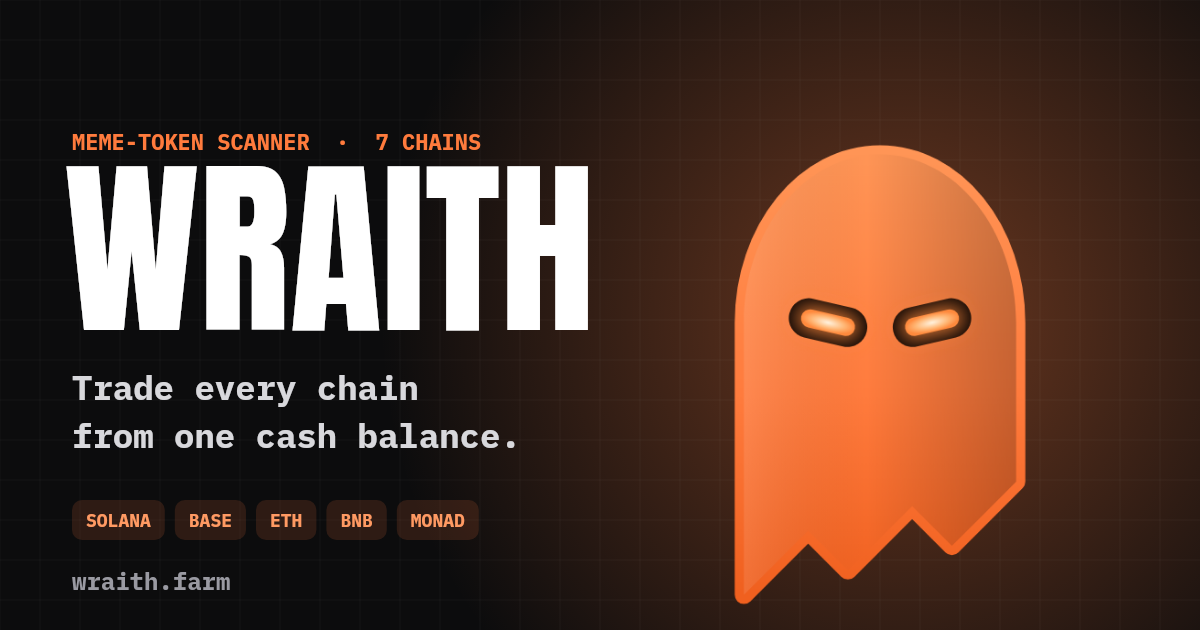
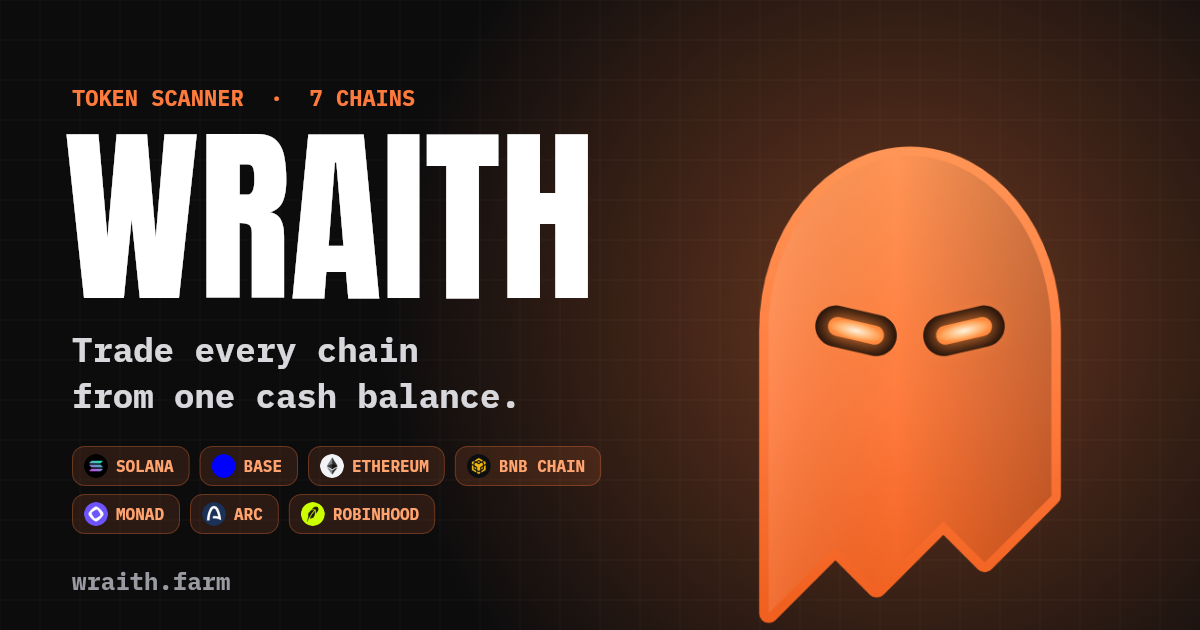
Reposition as a token scanner across 7 chains
Landing, metadata, manifest, login and legal pages now describe Wraith
as a token scanner (Solana, Base, Ethereum, BNB Chain, Monad, Arc,
Robinhood Chain) instead of a meme token scanner. Telegram copy and
the share image follow the same positioning.

Claude-Session: https://claude.ai/code/session_01MD3CXU848BuoMyALSbipTF

diff --git a/components/landing/landing.css b/components/landing/landing.css
@@ -163,7 +163,9 @@
 .lp-board-row .mx strong { color: #22c55e; font-family: var(--font-mono, monospace); font-size: 17px; }
 .lp-board-row .mx span { color: var(--text-dim, #6e6e74); font-size: 11px; }
 .lp-board-foot { margin-top: 10px; color: var(--text-dim, #6e6e74); font-size: 11px; line-height: 1.5; }
-.lp-coin { width: 34px; height: 34px; border-radius: 50%; object-fit: cover; flex: 0 0 auto; background: var(--surface-2, #1a1a1c); }
+.lp-coin { position: relative; overflow: hidden; width: 34px; height: 34px; border-radius: 50%; object-fit: cover; flex: 0 0 auto; background: var(--surface-2, #1a1a1c); }
+.lp-coin .lp-ci { position: absolute; inset: 0; width: 100%; height: 100%; max-width: none; object-fit: cover; border-radius: 50%; opacity: 0; transition: opacity .18s; }
+.lp-coin .lp-ci.in { opacity: 1; }
 .lp-coin.ph { display: grid; place-items: center; font-weight: 800; color: var(--accent-text, #ffad7b); }
 .lp-scan-row .lp-coin, .lp-win .lp-coin { width: 24px; height: 24px; font-size: 11px; }
 .lp-scan-head, .lp-scan-row { grid-template-columns: 1.7fr .8fr 1fr .8fr .8fr; }
@@ -222,7 +224,7 @@
   .lp-scan-head span:nth-child(5), .lp-scan-row span:nth-child(5) { display: none; }
   .lp-scan-row .id { gap: 6px; min-width: 0; }
   .lp-scan-row .id b { overflow: hidden; text-overflow: ellipsis; }
-  .lp-scan-row .id svg, .lp-scan-row .id img:not(.lp-coin) { display: none; }
+  .lp-scan-row .id svg, .lp-scan-row .id img:not(.lp-coin):not(.lp-ci) { display: none; }
   .lp-wins-top { flex-direction: column; }
   .lp-board-stats { gap: 8px; }
   .lp-board-stats > div { padding: 10px 8px; }
@@ -267,8 +269,8 @@ html { scroll-behavior: smooth; }
 .lp section[id] { scroll-margin-top: 96px; }
 .lp-nav { position: fixed; top: 14px; left: 0; right: 0; z-index: 60; display: flex; flex-direction: column; align-items: center; pointer-events: none; }
 .lp-prog { position: fixed; top: 0; left: 0; right: 0; height: 2px; background: linear-gradient(90deg, #ff7b3d, #ffb27f); transform-origin: 0 50%; z-index: 61; box-shadow: 0 0 12px rgba(255,123,61,.7); }
-.lp-nav-pill { pointer-events: auto; width: min(1060px, calc(100% - 28px)); display: flex; align-items: center; gap: 18px; padding: 8px 8px 8px 18px; border-radius: 999px; border: 1px solid rgba(255,255,255,.1); background: rgba(16,16,18,.55); -webkit-backdrop-filter: blur(20px) saturate(1.4); backdrop-filter: blur(20px) saturate(1.4); box-shadow: 0 18px 50px -22px rgba(0,0,0,.8), inset 0 1px 0 rgba(255,255,255,.05); transition: width .35s cubic-bezier(.22,1,.36,1), background .25s, box-shadow .25s; }
-.lp-nav.sc .lp-nav-pill { width: min(780px, calc(100% - 28px)); background: rgba(14,14,16,.82); box-shadow: 0 22px 60px -20px rgba(0,0,0,.9), 0 0 0 1px rgba(255,123,61,.08); }
+.lp-nav-pill { pointer-events: auto; width: min(1160px, calc(100% - 32px)); display: flex; align-items: center; gap: 18px; padding: 8px 8px 8px 18px; border-radius: 999px; border: 1px solid rgba(255,255,255,.1); background: rgba(16,16,18,.55); -webkit-backdrop-filter: blur(20px) saturate(1.4); backdrop-filter: blur(20px) saturate(1.4); box-shadow: 0 18px 50px -22px rgba(0,0,0,.8), inset 0 1px 0 rgba(255,255,255,.05); transition: width .35s cubic-bezier(.22,1,.36,1), background .25s, box-shadow .25s; }
+.lp-nav.sc .lp-nav-pill { background: rgba(14,14,16,.82); box-shadow: 0 22px 60px -20px rgba(0,0,0,.9), 0 0 0 1px rgba(255,123,61,.08); }
 .lp-brand { display: flex; align-items: center; gap: 10px; font: 800 15px/1 var(--lp-display), system-ui, sans-serif; letter-spacing: .28em; color: #fff; }
 .lp-brand img { width: 26px; height: 26px; object-fit: contain; mix-blend-mode: screen; filter: drop-shadow(0 0 7px rgba(255,123,61,.5)); }
 .lp-nav-links { display: flex; align-items: center; gap: 2px; margin-left: auto; }
@@ -369,3 +371,4 @@ html { scroll-behavior: smooth; }
 .dl-badge small{font-size:10px;opacity:.75}
 .dl-badge b{font-size:16px;font-weight:700;letter-spacing:-.01em}
 .dl-badge em{font-style:normal;font-size:10.5px;font-weight:800;letter-spacing:.06em;text-transform:uppercase;padding:3px 8px;border-radius:999px;background:rgba(255,255,255,.12)}
+@media (min-width: 1700px) { .lp-nav-pill { width: min(1320px, calc(100% - 64px)); } }

diff --git a/components/landing/Mocks.tsx b/components/landing/Mocks.tsx
@@ -4,7 +4,7 @@ import { AnimatePresence, motion, useReducedMotion } from "framer-motion";
 import { useEffect, useMemo, useState } from "react";
 import ChainLogo from "@/components/ChainLogo";
 
-export interface Call { address: string; chain: string; symbol: string; imageUrl: string | null; tier: "HOT" | "WATCH"; score: number; spottedAt: number; spottedMcap: number; peakMcap: number; lastMcap: number; x: number }
+export interface Call { address: string; chain: string; symbol: string; imageUrl: string | null; tier: "HOT" | "WATCH"; score: number; spottedAt: number; spottedMcap: number; peakMcap: number; lastMcap: number; x: number; nowX?: number }
 export interface Candle { t: number; o: number; h: number; l: number; c: number; v?: number }
 export interface TgBlock { html: string; kb?: { inline_keyboard?: { text: string }[][] } | null }
 export interface LandingData {
@@ -24,12 +24,20 @@ export const xf = (x: number) => `${x >= 10 ? x.toFixed(1) : x.toFixed(2)}x`;
 function Empty({ text }: { text: string }) { return <p className="lp-empty">{text}</p>; }
 function Skeleton({ rows = 5 }: { rows?: number }) { return <div className="lp-skel">{Array.from({ length: rows }).map((_, i) => <i key={i} />)}</div>; }
 
+/** Letter avatar is always there instantly; the token image fades in over it, and a broken image just leaves the letter. */
 export function Coin({ c }: { c: Call }) {
-  return c.imageUrl
-    // eslint-disable-next-line @next/next/no-img-element
-    ? <img className="lp-coin" src={c.imageUrl} alt="" loading="lazy" onError={(e) => { (e.target as HTMLImageElement).style.visibility = "hidden"; }} />
-    : <span className="lp-coin ph">{c.symbol.slice(0, 1)}</span>;
+  const [ok, setOk] = useState(true);
+  return (
+    <span className="lp-coin ph">
+      {c.symbol.slice(0, 1).toUpperCase()}
+      {c.imageUrl && ok && (
+        // eslint-disable-next-line @next/next/no-img-element
+        <img className="lp-ci" src={c.imageUrl} alt="" loading="eager" decoding="async" referrerPolicy="no-referrer" onLoad={(e) => e.currentTarget.classList.add("in")} onError={() => setOk(false)} />
+      )}
+    </span>
+  );
 }
+const nowMult = (c: Call) => c.nowX ?? (c.spottedMcap > 0 ? c.lastMcap / c.spottedMcap : c.x);
 
 export function Ticker({ data }: { data: LandingData | null }) {
   const items = useMemo(() => {
@@ -49,8 +57,8 @@ export function Ticker({ data }: { data: LandingData | null }) {
             <ChainLogo chain={c.chain} size={14} />
             <b>${c.symbol.toUpperCase()}</b>
             <i style={{ color: TIER_COLOR[c.tier], borderColor: TIER_COLOR[c.tier] }}>{c.tier}</i>
-            <em style={{ color: c.x >= 1 ? "#22c55e" : "#ef4444" }}>{xf(c.x)}</em>
-            <small>{fmtUsd(c.spottedMcap)} → {fmtUsd(c.peakMcap)}</small>
+            <em style={{ color: nowMult(c) >= 1 ? "#22c55e" : "#ef4444" }}>{xf(nowMult(c))}</em>
+            <small>{fmtUsd(c.spottedMcap)} → {fmtUsd(c.lastMcap)}</small>
           </span>
         ))}
       </div>
@@ -74,7 +82,7 @@ export function LiveBoard({ data, loading }: { data: LandingData | null; loading
           <div key={c.address} className="lp-board-row">
             <Coin c={c} />
             <div className="nm"><b>${c.symbol.toUpperCase()}</b><span><ChainLogo chain={c.chain} size={12} /> called at {fmtUsd(c.spottedMcap)}</span></div>
-            <div className="mx"><strong>{xf(c.x)}</strong><span>peak {fmtUsd(c.peakMcap)}</span></div>
+            <div className="mx"><strong>{xf(nowMult(c))}</strong><span>now {fmtUsd(c.lastMcap)} · peak {fmtUsd(c.peakMcap)}</span></div>
           </div>
         ))}
       </div>
@@ -181,7 +189,7 @@ export function WinsReal({ data }: { data: LandingData | null }) {
         <div key={c.address} className="lp-win">
           <span className="id"><Coin c={c} /><b>${c.symbol.toUpperCase()}</b><ChainLogo chain={c.chain} size={13} /></span>
           <i style={{ color: TIER_COLOR[c.tier], borderColor: TIER_COLOR[c.tier] }}>{c.tier}</i>
-          <em>{xf(c.x)}</em>
+          <em>{xf(nowMult(c))}</em>
         </div>
       ))}
     </div>

diff --git a/app/page.tsx b/app/page.tsx
@@ -3,16 +3,16 @@ import Landing from "@/components/landing/Landing";
 
 export const metadata: Metadata = {
   title: "Wraith: trade every chain from one cash balance",
-  description: "Scan new meme tokens on Solana, Base, Ethereum, BNB Chain, Monad, Arc and Robinhood Chain, and buy them with the stablecoins you already hold.",
+  description: "Scan new tokens on Solana, Base, Ethereum, BNB Chain, Monad, Arc and Robinhood Chain, find the ones with real upside, and buy with the stablecoins you already hold.",
   openGraph: {
     title: "Wraith: trade every chain from one cash balance",
-    description: "Multi-chain meme-token scanner and trading platform with Telegram alerts and OMEN holder tiers.",
-    images: [{ url: "/og.png", width: 1200, height: 630, alt: "Wraith, the meme-token scanner" }],
+    description: "Multi-chain token scanner and trading platform with Telegram alerts and OMEN holder tiers.",
+    images: [{ url: "/og.png", width: 1200, height: 630, alt: "Wraith, the multi-chain token scanner" }],
     url: "https://www.wraith.farm",
     siteName: "Wraith",
     type: "website",
   },
-  twitter: { card: "summary_large_image", title: "Wraith: trade every chain from one cash balance", description: "Multi-chain meme-token scanner and trading platform with Telegram alerts.", images: ["/og.png"] },
+  twitter: { card: "summary_large_image", title: "Wraith: trade every chain from one cash balance", description: "Multi-chain token scanner and trading platform with Telegram alerts.", images: ["/og.png"] },
   alternates: { canonical: "/" },
 };
 
@@ -21,7 +21,7 @@ const LD = {
   "@graph": [
     { "@type": "Organization", "@id": "https://www.wraith.farm/#org", name: "Wraith", url: "https://www.wraith.farm", logo: "https://www.wraith.farm/icon-512.png" },
     { "@type": "WebSite", "@id": "https://www.wraith.farm/#site", url: "https://www.wraith.farm", name: "Wraith", publisher: { "@id": "https://www.wraith.farm/#org" } },
-    { "@type": "SoftwareApplication", name: "Wraith", applicationCategory: "FinanceApplication", operatingSystem: "Web, Android", url: "https://www.wraith.farm", image: "https://www.wraith.farm/og.png", description: "Multi-chain meme-token scanner and trading platform with Telegram alerts.", offers: { "@type": "Offer", price: "0", priceCurrency: "USD" } },
+    { "@type": "SoftwareApplication", name: "Wraith", applicationCategory: "FinanceApplication", operatingSystem: "Web, Android", url: "https://www.wraith.farm", image: "https://www.wraith.farm/og.png", description: "Multi-chain token scanner and trading platform with Telegram alerts.", offers: { "@type": "Offer", price: "0", priceCurrency: "USD" } },
   ],
 };
 

diff --git a/app/api/landing/route.ts b/app/api/landing/route.ts
@@ -25,6 +25,8 @@ type Candle = { t: number; o: number; h: number; l: number; c: number; v?: numbe
 type TgBlock = { html: string; kb: unknown };
 
 const xOf = (c: SignalCall) => (c.spottedMcap > 0 ? c.peakMcap / c.spottedMcap : 0);
+/** where the call stands now vs. where Wraith flagged it: the calls that stayed up */
+const nowOf = (c: SignalCall) => (c.spottedMcap > 0 ? c.lastMcap / c.spottedMcap : 0);
 const slim = (c: SignalCall) => ({
   address: c.address,
   chain: c.chain ?? "solana",
@@ -37,6 +39,7 @@ const slim = (c: SignalCall) => ({
   peakMcap: c.peakMcap,
   lastMcap: c.lastMcap,
   x: Math.round(xOf(c) * 100) / 100,
+  nowX: Math.round(nowOf(c) * 100) / 100,
 });
 type Slim = ReturnType<typeof slim>;
 
@@ -112,10 +115,12 @@ async function sampleSignal(origin: string, calls: SignalCall[], now: number): P
 function shape(calls: SignalCall[], now: number) {
   const hit2 = calls.filter((c) => xOf(c) >= 2).length;
   const stats = { calls: calls.length, hit2, rate: calls.length ? Math.round((hit2 / calls.length) * 100) : 0 };
-  const winCalls = calls.filter((c) => xOf(c) >= 1.5).sort((a, b) => xOf(b) - xOf(a));
+  // Showcase the calls that STAYED up (still well above the call price now), not ones that spiked and dumped.
+  const held = calls.filter((c) => nowOf(c) >= 1.5).sort((a, b) => nowOf(b) - nowOf(a));
+  const winCalls = held.length >= 3 ? held : calls.filter((c) => xOf(c) >= 1.5).sort((a, b) => xOf(b) - xOf(a));
   const wins = winCalls.slice(0, 8).map(slim);
   const recent = calls.filter((c) => c.spottedAt < now - 3_600_000).sort((a, b) => b.spottedAt - a.spottedAt).slice(0, 8).map(slim);
-  const topWin = calls.filter((c) => xOf(c) >= 2).sort((a, b) => xOf(b) - xOf(a))[0];
+  const topWin = held.find((c) => nowOf(c) >= 2) ?? calls.filter((c) => xOf(c) >= 2).sort((a, b) => xOf(b) - xOf(a))[0];
   const win: TgBlock | null = topWin
     ? { html: winMessage(topWin, milestoneFor(topWin.lastMcap / topWin.spottedMcap) || 2), kb: tokenKeyboard(topWin.address, topWin.chain ?? "solana") }
     : null;

diff --git a/app/layout.tsx b/app/layout.tsx
@@ -32,14 +32,14 @@ const display = localFont({
 
 const SITE = "https://www.wraith.farm";
 const TITLE = "Wraith: trade every chain from one cash balance";
-const DESC = "Multi-chain meme-token scanner and trading platform. Live signals on Solana, Base, Ethereum, BNB Chain, Monad, Arc and Robinhood Chain, Telegram alerts, and paper trading.";
+const DESC = "Multi-chain token scanner and trading platform. Find tokens with real upside across Solana, Base, Ethereum, BNB Chain, Monad, Arc and Robinhood Chain, with safety scores, Telegram alerts and paper trading.";
 
 export const metadata: Metadata = {
   metadataBase: new URL(SITE),
   title: { default: TITLE, template: "%s | Wraith" },
   description: DESC,
   applicationName: "Wraith",
-  keywords: ["meme coin scanner", "token scanner", "Solana meme coins", "crypto signals", "paper trading", "Telegram crypto alerts", "multi-chain trading", "Wraith"],
+  keywords: ["token scanner", "crypto token scanner", "multi-chain token scanner", "new token alerts", "crypto signals", "paper trading", "Telegram crypto alerts", "multi-chain trading", "Wraith"],
   authors: [{ name: "Wraith", url: SITE }],
   creator: "Wraith",
   publisher: "Wraith",
@@ -52,7 +52,7 @@ export const metadata: Metadata = {
     title: TITLE,
     description: DESC,
     locale: "en_US",
-    images: [{ url: "/og.png", width: 1200, height: 630, alt: "Wraith, the meme-token scanner" }],
+    images: [{ url: "/og.png", width: 1200, height: 630, alt: "Wraith, the multi-chain token scanner" }],
   },
   twitter: { card: "summary_large_image", title: TITLE, description: DESC, images: ["/og.png"] },
   robots: { index: true, follow: true, googleBot: { index: true, follow: true, "max-image-preview": "large", "max-snippet": -1 } },

diff --git a/app/terms/page.tsx b/app/terms/page.tsx
@@ -1,7 +1,7 @@
 import type { Metadata } from "next";
 import { LegalPage, H } from "../legal-page";
 
-export const metadata: Metadata = { title: "Terms of Service | Wraith" };
+export const metadata: Metadata = { title: "Terms of Service" };
 
 export default function TermsPage() {
   return (
@@ -9,10 +9,10 @@ export default function TermsPage() {
       <p>By using Wraith (wraith.farm) you agree to these terms. If you do not agree, do not use the service.</p>
 
       <H>What Wraith is</H>
-      <p>Wraith is a tool for discovering and tracking meme tokens, with paper trading and optional live trading. It provides market data and automated checks for information only.</p>
+      <p>Wraith is a tool for discovering and tracking tokens across chains, with paper trading and optional live trading. It provides market data and automated checks for information only.</p>
 
       <H>Not financial advice</H>
-      <p>Nothing in Wraith is financial, investment or legal advice. Safety scores, analysis and signals are automated and can be wrong. Meme tokens are extremely volatile and you can lose everything you put in. You are responsible for your own decisions.</p>
+      <p>Nothing in Wraith is financial, investment or legal advice. Safety scores, analysis and signals are automated and can be wrong. Early-stage tokens are extremely volatile and you can lose everything you put in. You are responsible for your own decisions.</p>
 
       <H>Your account and wallet</H>
       <p>You are responsible for your account and for keeping your sign-in and wallet secure. You must be old enough to use crypto services where you live and follow the laws that apply to you.</p>

diff --git a/components/landing/content.ts b/components/landing/content.ts
@@ -6,7 +6,7 @@ export const HERO = {
   eyebrow: "Seven networks · one balance",
   title: ["See it first.", "Buy it from", "any chain."],
   accent: 2, // index of the line shown in the accent colour
-  sub: "Wraith scans new meme tokens on Solana, Base, Ethereum, BNB Chain, Monad, Arc and Robinhood Chain, scores them, and lets you buy with the stablecoins you already hold.",
+  sub: "Wraith scans new tokens on Solana, Base, Ethereum, BNB Chain, Monad, Arc and Robinhood Chain, scores their upside and safety, and lets you buy with the stablecoins you already hold.",
   note: "Sign in with Google · wallets created for you · not financial advice",
 };
 
@@ -67,5 +67,5 @@ export const FAQ = [
   ["Do you hold my funds?", "No. Wallets are embedded wallets that only you can approve from. You approve each transaction and can lock the wallet with a PIN."],
   ["What does it cost?", "A small per-trade fee that depends on your tier, from 1.5% with no OMEN down to 0% at the top tier. Network gas is separate."],
   ["Are the screens on this page real?", "Yes. The numbers, tokens and Telegram messages on this page come from the same server-side call record the app uses, refreshed every 30 seconds."],
-  ["Is this financial advice?", "No. Meme tokens are extremely volatile and most lose value. Only trade what you can afford to lose."],
+  ["Is this financial advice?", "No. Early-stage tokens are extremely volatile and most lose value. Only trade what you can afford to lose."],
 ] as const;

diff --git a/components/landing/Landing.tsx b/components/landing/Landing.tsx
@@ -153,7 +153,7 @@ export default function Landing() {
         <section id="features" className="ws-sec">
           <div className="ws-wrap">
             <Reveal><span className="ws-kicker">The product</span>
-              <h2 className="ws-h2 lp-h2">Built for the way meme tokens actually move.</h2></Reveal>
+              <h2 className="ws-h2 lp-h2">Built for the way new tokens actually move.</h2></Reveal>
             <div className="lp-rows">
               {SHOWCASE.map((f, i) => (
                 <div key={f.id} className={`lp-row${i % 2 ? " rev" : ""}`}>
@@ -266,7 +266,7 @@ export default function Landing() {
               </div>
             </div>
             <footer className="ws-foot">
-              <span>Wraith © {new Date().getFullYear()} · Not financial advice. Meme tokens are high risk.</span>
+              <span>Wraith © {new Date().getFullYear()} · Not financial advice. Tokens are high risk.</span>
               <span><a href={PORTAL} target="_blank" rel="noreferrer">Telegram channel</a> · <a href={BOT} target="_blank" rel="noreferrer">Alerts bot</a> · <Link href="/app">App</Link> · <Link href="/privacy">Privacy Policy</Link> · <Link href="/terms">Terms</Link></span>
             </footer>
           </div>

diff --git a/components/SniperEngine.tsx b/components/SniperEngine.tsx
@@ -124,7 +124,7 @@ export default function SniperEngine({ allowed }: { allowed: boolean }) {
               <a href="/#omen" style={{ display: "block", marginTop: 16, padding: 14, border: "1px dashed var(--border)", borderRadius: 10, color: "var(--text-muted)", fontSize: 12, textDecoration: "none" }}>🔒 Sniper unlocks at SHADE (250K OMEN).</a>
             ) : !cfg.ack ? (
               <div style={{ marginTop: 16, fontSize: 12, lineHeight: 1.7, color: "var(--text-muted)" }}>
-                <p style={{ margin: "0 0 10px" }}><b style={{ color: "var(--text)" }}>Read this first.</b> New memecoins are extremely risky and many are scams that cannot be sold. The sniper spends your real USDC without asking each time.</p>
+                <p style={{ margin: "0 0 10px" }}><b style={{ color: "var(--text)" }}>Read this first.</b> New tokens are extremely risky and many are scams that cannot be sold. The sniper spends your real USDC without asking each time.</p>
                 <ul style={{ margin: "0 0 12px", paddingLeft: 18 }}>
                   <li>It works only while Wraith is open in a visible tab.</li>
                   <li>Your hard caps (per buy, per day, open positions) are the only protection. Keep them small.</li>

diff --git a/app/privacy/page.tsx b/app/privacy/page.tsx
@@ -1,12 +1,12 @@
 import type { Metadata } from "next";
 import { LegalPage, H } from "../legal-page";
 
-export const metadata: Metadata = { title: "Privacy Policy | Wraith" };
+export const metadata: Metadata = { title: "Privacy Policy" };
 
 export default function PrivacyPage() {
   return (
     <LegalPage title="Privacy Policy" updated="November 5, 2026">
-      <p>Wraith (wraith.farm) is a meme token scanner and trading app. This page explains what we collect and how it is used.</p>
+      <p>Wraith (wraith.farm) is a multi-chain token scanner and trading app. This page explains what we collect and how it is used.</p>
 
       <H>What we collect</H>
       <p>When you sign in with Google, email or a wallet, authentication is handled by Privy. We receive your account identifier, your email address if you used one, your display name and profile picture from your sign-in provider, and your wallet address.</p>

diff --git a/marketing/kit/specs.js b/marketing/kit/specs.js
@@ -1,5 +1,5 @@
 module.exports=[
-{type:"SIGHTING",n:1,title:"Paper trading",sub:"Practice on live meme tokens with fake money. Same charts, zero risk.",chips:["LIVE PRICES","NO RISK"]},
+{type:"SIGHTING",n:1,title:"Paper trading",sub:"Practice on live tokens with fake money. Same charts, zero risk.",chips:["LIVE PRICES","NO RISK"]},
 {type:"SIGHTING",n:2,title:"One cash balance, seven chains",sub:"Buy on Solana, Base, Ethereum, BNB Chain, Monad, Arc and Robinhood Chain with the stablecoins you already hold.",chips:["7 CHAINS","STABLECOINS"]},
 {type:"SIGHTING",n:3,title:"Signals that hunt for you",sub:"The scanner scores new tokens around the clock and pings you the moment one lights up.",chips:["SCORE","24/7"]},
 {type:"SIGHTING",n:4,title:"Telegram alerts",sub:"Link your chat, pick your chains and minimum score, sleep through the noise.",chips:["QUIET MODE","PER-CHAIN"]},

diff --git a/lib/telegramUi.ts b/lib/telegramUi.ts
@@ -1,7 +1,7 @@
 // Shared Telegram look & feel for the Wraith bot: one header style, chain-aware links, inline buttons.
 import { CHAINS } from "@/lib/chains";
 
-export const APP_URL = (process.env.NEXT_PUBLIC_APP_URL || process.env.NEXTAUTH_URL || "https://wraith-scan.vercel.app").replace(/\/$/, "");
+export const APP_URL = (process.env.NEXT_PUBLIC_APP_URL || process.env.NEXTAUTH_URL || "https://www.wraith.farm").replace(/\/$/, "");
 export const BOT_USERNAME = process.env.TELEGRAM_BOT_USERNAME ?? "wraithscan_bot";
 const RULE = "━━━━━━━━━━━━━━━━";
 
